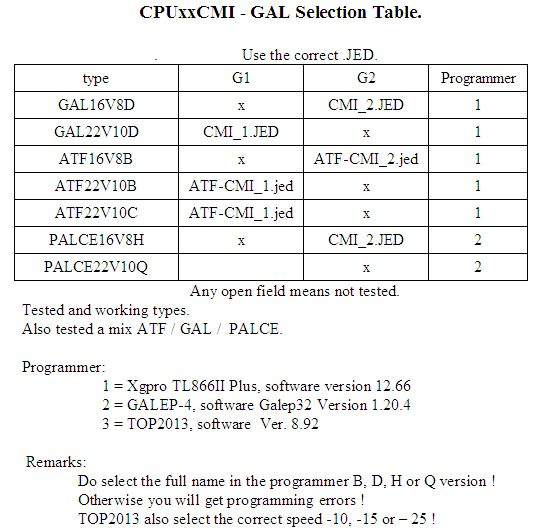
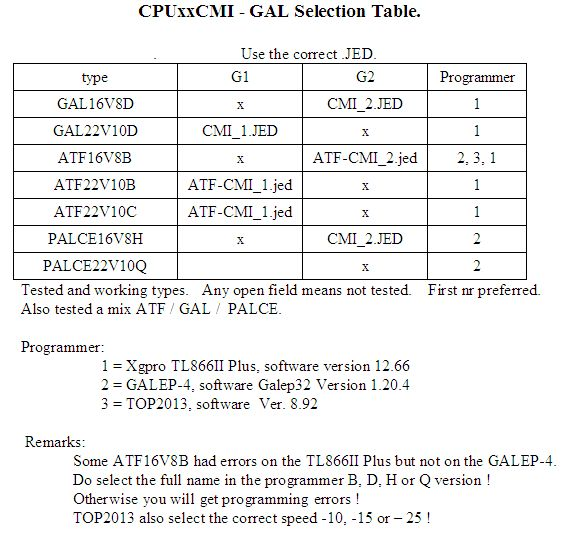
Update CPUxxCMI and 09FLP GAL info

Changed region(s): [[0.0, 0.0902, 0.9652, 0.812], [0.0311, 0.812, 0.9963, 0.9925], [0.2491, 0.0, 0.7784, 0.0602]]

diff --git a/Hardware/CPU09GPP/09FLP/GALS/README.md b/Hardware/CPU09GPP/09FLP/GALS/README.md
@@ -1,0 +1,7 @@
+Atmel contains the specifications for the Atmel ATF16V8 chips. 
+Translated from PALASM to CUPL. 
+
+Check the '09FLP_GAL_Table' to make a selection.
+
+
+CdeJ
